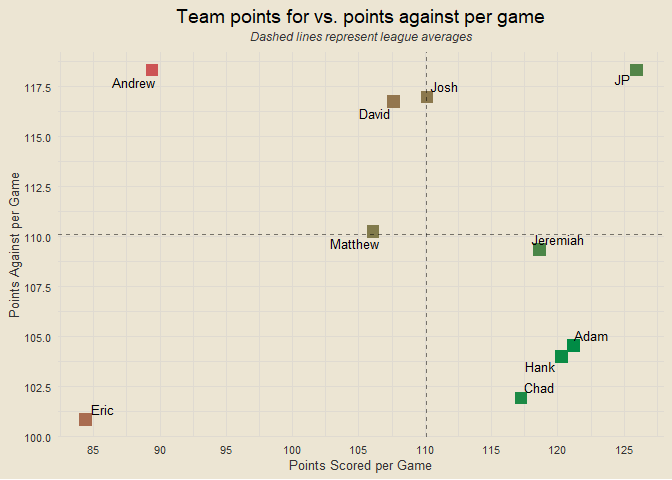
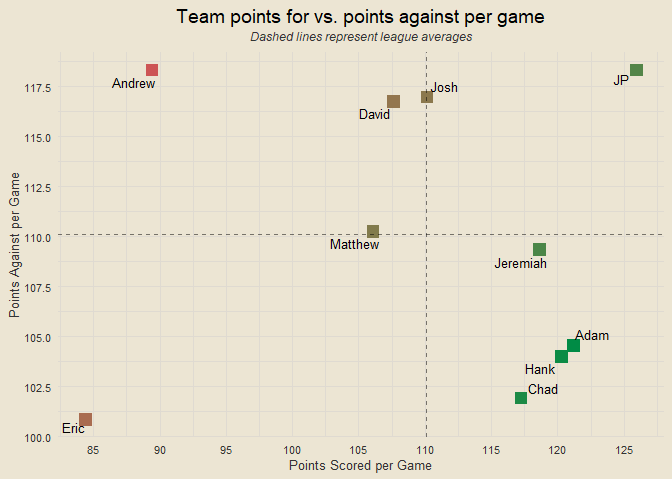
fixing a couple instances of team names still populating instead of manager name

diff --git a/README.md b/README.md
@@ -113,21 +113,21 @@ Travis Scott Burger Fantasy League 2025
 
 ### Biggest Blowouts
 
-- Week 5: Love Hurts def. Orthopedics PreOp 143.83-80.98
-- Week 6: DSM-5 All Stars def. Orthopedics PreOp 137.75-76.64
-- Week 2: cArOLinA pAntHErS def. Dakshots 137.81-82.82
-- Week 5: Hank’s Ass def. Shock Squad 165.1-111.25
-- Week 6: Hank’s Ass def. Bearly Alive 142.83-91.58
+- Week 5: Hank def. Andrew 143.83-80.98
+- Week 6: Chad def. Andrew 137.75-76.64
+- Week 2: Josh def. Eric 137.81-82.82
+- Week 5: Adam def. David 165.1-111.25
+- Week 6: Adam def. Matthew 142.83-91.58
 
 ------------------------------------------------------------------------
 
 ### Closest Games
 
-- Week 3: Dakshots def. Love Hurts 98.13-98.11
-- Week 4: Hank’s Ass def. Dakshots 72.44-70.28
-- Week 3: Orthopedics PreOp def. Tua’s Brain Scan 103.08-99.47
-- Week 3: Bearly Alive def. Shock Squad 97.73-93.26
-- Week 4: DSM-5 All Stars def. Love Hurts 107.04-102.47
+- Week 3: Eric def. Hank 98.13-98.11
+- Week 4: Adam def. Eric 72.44-70.28
+- Week 3: Andrew def. Jeremiah 103.08-99.47
+- Week 3: Matthew def. David 97.73-93.26
+- Week 4: Chad def. Hank 107.04-102.47
 
 ------------------------------------------------------------------------
 
